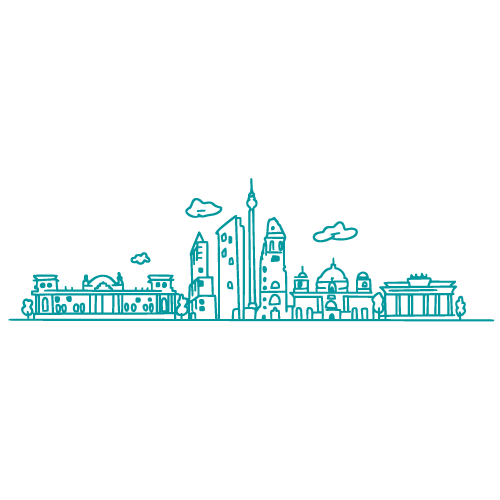
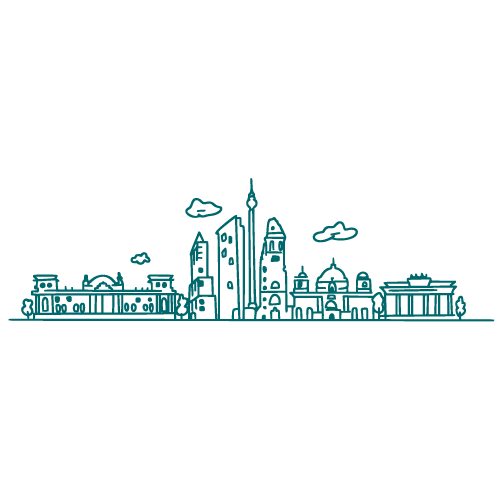
Updsate colors to darker teal

Changed region(s): [[0.03, 0.36, 0.99, 0.66], [0.63, 0.42, 0.72, 0.51], [0.27, 0.51, 0.3, 0.54]]

diff --git a/src/components/TripType/TripType.css b/src/components/TripType/TripType.css
@@ -4,7 +4,7 @@
     display: flex;
     flex-direction: column;
     align-items: center;
-    color: #03989e;
+    color: #00676b;
     background-size: cover;
     background-repeat: no-repeat;
     background-position: center center;
@@ -22,8 +22,8 @@
 
 .trip-host, .trip-join, .trip-saved {
     margin-bottom: 2%;
-    background-color: hsl(182deg 96% 32%);
-    border: 2px solid hsl(182deg 96% 32%);
+    background-color: #00676b;
+    border: 2px solid #00676b;
     color: hsl(0deg 0% 100%);
     cursor: pointer;
     font-family: 'Montserrat', sans-serif;
@@ -34,3 +34,15 @@
     width: 20vw;
     height: 5vh;
 }
+
+.trip-host:hover, .trip-join:hover, .trip-saved:hover {
+    cursor: pointer;
+    background-color: white;
+    color: #00676b;
+    border: 2px solid #00676b;
+  }
+  
+  .primary--button:active {
+    box-shadow: 0 2px #666;
+    transform: translateY(4px)
+  }

diff --git a/src/components/MuseumsContainer/MuseumsContainer.css b/src/components/MuseumsContainer/MuseumsContainer.css
@@ -15,8 +15,8 @@
 .go-book-trip {
     margin-bottom: 2%;
     margin-top: 5%;
-    background-color: hsl(182deg 96% 32%);
-    border: 2px solid hsl(182deg 96% 32%);
+    background-color: #00676b;
+    border: 2px solid #00676b;
     color: hsl(0deg 0% 100%);
     cursor: pointer;
     font-family: 'Montserrat', sans-serif;
@@ -26,6 +26,18 @@
     transition: all 300ms;
     width: 18vw;
     height: 5vh;
+}
+
+.go-book-trip:hover {
+    cursor: pointer;
+    background-color: white;
+    color: #00676b;
+    border: 2px solid #00676b;
+}
+
+.go-book-trip:active {
+    box-shadow: 0 2px #666;
+    transform: translateY(4px)
 }
 
 @media only screen and (min-width:50px) and (max-width:574px) {

diff --git a/src/components/SignOut/SignOut.css b/src/components/SignOut/SignOut.css
@@ -4,3 +4,30 @@
   margin: 10px;
   border: 3px solid #ffffff;
 }
+
+.sign-out--button {
+  background-color: white;
+  border: 2px solid #00676b;
+  color: #00676b;
+  cursor: pointer;
+  font-family: 'Montserrat', sans-serif;
+  font-size: 92%;
+  font-weight: 600;
+  text-align: center;
+  transition: all 300ms;
+  /* width: 18vw;
+  height: 4vh; */
+  /* margin-left: -.5%; */
+  margin-bottom: 1%;
+}
+
+sign-out--button.:hover {
+  cursor: pointer;
+  background-color: #03989e;
+  color: white;
+}
+
+.sign-out--button:active {
+  box-shadow: 0 2px #666;
+  transform: translateY(4px)
+}

diff --git a/src/components/ExistingTrips/ExistingTrips.css b/src/components/ExistingTrips/ExistingTrips.css
@@ -17,7 +17,7 @@
 .join-trip {
     font-family: 'Roboto', sans-serif;
     font-weight: 600;
-    color: #03989e;
+    color: #00676b;
     font-size: 130%;
     margin-bottom: 2%;
 }
@@ -44,8 +44,8 @@ p {
 }
 
 button {
-    background-color: #03989e;
-    border: 2px solid #03989e;
+    background-color: #00676b;
+    border: 2px solid #00676b;
     color: white;
     cursor: pointer;
     font-family: 'Montserrat', sans-serif;
@@ -61,7 +61,7 @@ button {
 button:hover {
     cursor: pointer;
     background-color: white;
-    color: #03989e;
+    color: #00676b;
 }
 
 button:active {

diff --git a/src/components/SignUpForm/SignUpForm.css b/src/components/SignUpForm/SignUpForm.css
@@ -1,7 +1,7 @@
 .sign-up {
   font-family: 'Roboto', sans-serif;
   font-weight: 600;
-  color:#03989e;
+  color:#00676b;
   margin-top: 5%;
   margin-bottom: 1%;
 }
@@ -11,8 +11,8 @@
 }
 
 .sign-up-button {
-  background-color: #03989e;
-  border: 2px solid #03989e;
+  background-color: #00676b;
+  border: 2px solid #00676b;
   color: white;
   cursor: pointer;
   font-family: 'Montserrat', sans-serif;
@@ -21,5 +21,5 @@
   text-align: center;
   transition: all 300ms;
   width: 18vw;
-  height: 4vh;
+  height: 5vh;
 }

diff --git a/src/components/MuseumCard/MuseumCard.css b/src/components/MuseumCard/MuseumCard.css
@@ -6,7 +6,7 @@
   margin: 7%;
   align-items: center;
   justify-content: space-between;
-  background-color: #03989ead;
+  background-color: #00676b;
   box-shadow: 6px 3px 3px grey;
 }
 
@@ -27,12 +27,14 @@
   margin-bottom: 0;
   font-family: 'Roboto', sans-serif;
   font-weight: 600;
+  color: white;
 }
 
 h4 {
   margin-bottom: 0;
   font-family: 'Roboto', sans-serif;
   font-weight: 400;
+  color: white;
 }
 
 @media only screen and (min-width:50px) and (max-width:574px) {

diff --git a/src/components/Footer/Footer.css b/src/components/Footer/Footer.css
@@ -1,7 +1,7 @@
 .footer {
     width: 100vw;
     height: 10%;
-    background-color: #03989e;
+    background-color: #00676b;
     position: absolute;
     display: flex;
     align-items: center;
@@ -14,6 +14,6 @@
 .home, .footer-saved-trips, .footer-join-a-trip, .footer-host-a-trip {
     font-family: 'Roboto', sans-serif;
     font-weight: 600;
-    font-size: 90%;
+    font-size: 94%;
     color: white;
 }

diff --git a/src/components/App/App.css b/src/components/App/App.css
@@ -65,8 +65,8 @@
 }
 
 .primary--button {
-  background-color: #03989e;
-  border: 2px solid #03989e;
+  background-color: #00676b;
+  border: 2px solid #00676b;
   color: white;
   cursor: pointer;
   font-family: 'Montserrat', sans-serif;
@@ -82,7 +82,7 @@
 .primary--button:hover {
   cursor: pointer;
   background-color: white;
-  color: #03989e;
+  color: #00676b;
 }
 
 .primary--button:active {

diff --git a/src/components/LoginForm/LoginForm.css b/src/components/LoginForm/LoginForm.css
@@ -1,13 +1,13 @@
 .login-form {
   font-family: 'Roboto', sans-serif;
   font-weight: 600;
-  color:#03989e;
+  color:#00676b;
   margin-bottom: 2%;
   margin-top: 5%
 }
 
 .login-form-input {
   margin-top: 1%;
-  height: 15%;
+  height: 25%;
   margin-bottom: 1%;
 }

diff --git a/src/components/BaseForm/BaseForm.css b/src/components/BaseForm/BaseForm.css
@@ -10,7 +10,7 @@ p {
 
 .welcome {
   font-size: 140%;
-  color:  #03989e;
+  color: #00676b;
   font-family: 'Roboto', sans-serif;
   font-weight: 600;
   margin-bottom: 2%;

diff --git a/src/components/SearchForm/SearchForm.css b/src/components/SearchForm/SearchForm.css
@@ -16,7 +16,7 @@ form {
 .search-museums {
     font-family: 'Roboto', sans-serif;
     font-weight: 600;
-    color:#03989e;
+    color:#00676b;
     margin-bottom: 1%;
 }
 
